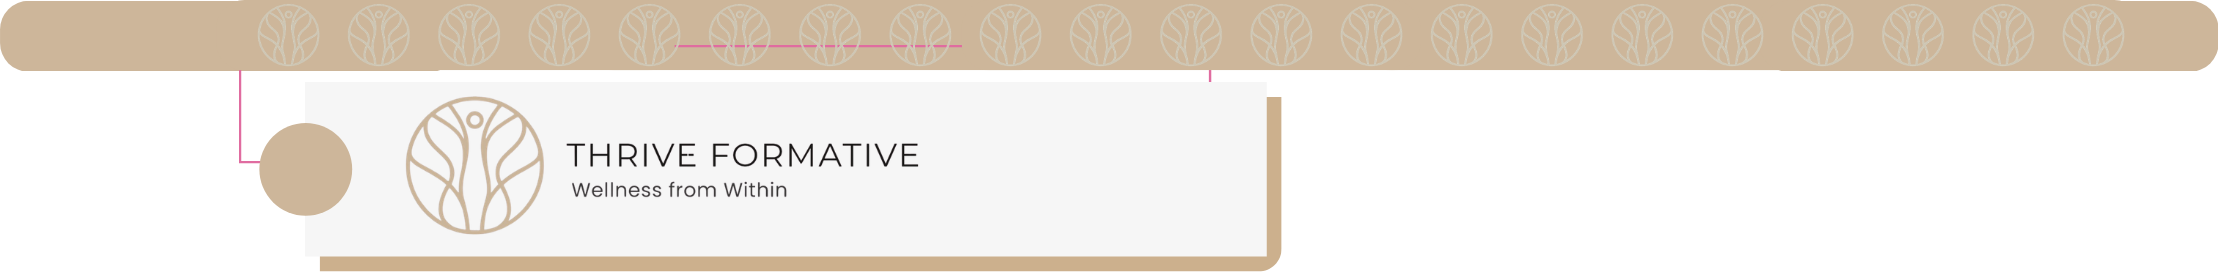
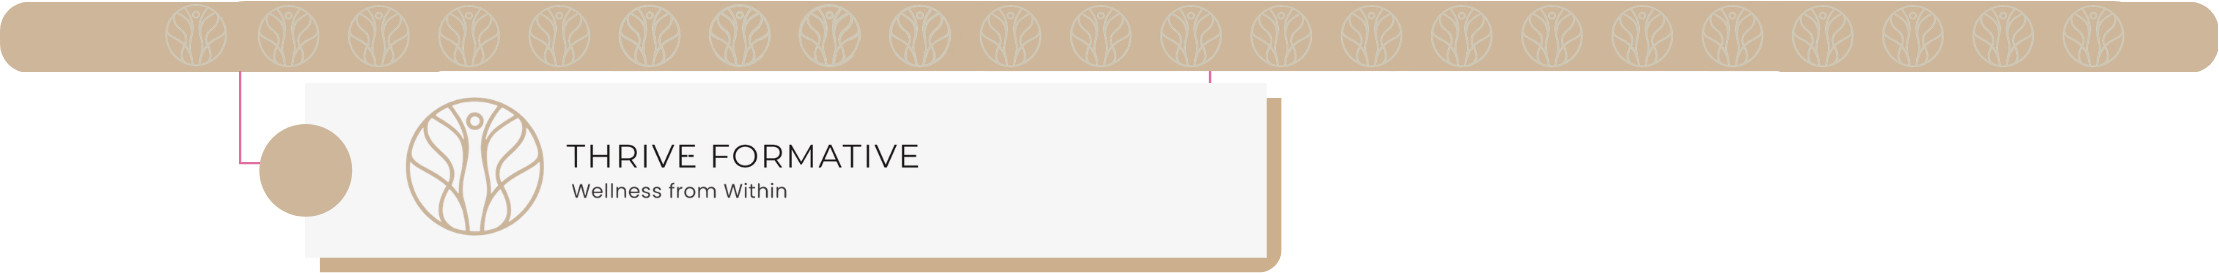
Actualiza header de correo con asset correcto y mayor altura visible.
Reemplaza la imagen superior, permite overflow lateral y escala el header a 720px.

diff --git a/lib/emailTemplate.ts b/lib/emailTemplate.ts
@@ -1,8 +1,9 @@
 const EMAIL_WIDTH = 600;
-const HEADER_SCALE = 1.35;
+const HEADER_DISPLAY_WIDTH = 720;
+const HEADER_HEIGHT_SCALE = 2.5;
 
 const ASSETS = {
-  header: { path: "/emails/header.png", width: 2219, height: 272 },
+  header: { path: "/emails/header.png", width: 2219, height: 273 },
   watermark: { path: "/emails/watermark.png", width: 1920, height: 1080 },
   footerBar: { path: "/emails/footer-bar.png", width: 1991, height: 191 },
   footerPhone: { path: "/emails/footer-phone.png", width: 525, height: 68 },
@@ -43,7 +44,7 @@ export function emailSignOff(): string {
 
 export function buildThriveEmailHtml(bodyHtml: string): string {
   const headerHeight = Math.round(
-    scaledHeight(ASSETS.header.width, ASSETS.header.height, EMAIL_WIDTH) * HEADER_SCALE,
+    scaledHeight(ASSETS.header.width, ASSETS.header.height, HEADER_DISPLAY_WIDTH) * HEADER_HEIGHT_SCALE,
   );
   const footerBarHeight = scaledHeight(ASSETS.footerBar.width, ASSETS.footerBar.height, EMAIL_WIDTH);
   const footerPhoneWidth = 220;
@@ -67,11 +68,11 @@ export function buildThriveEmailHtml(bodyHtml: string): string {
   <table role="presentation" width="100%" cellspacing="0" cellpadding="0" style="background-color:#f7f5f0;">
     <tr>
       <td align="center" style="padding:24px 12px;">
-        <table role="presentation" width="${EMAIL_WIDTH}" cellspacing="0" cellpadding="0" style="max-width:${EMAIL_WIDTH}px;width:100%;background-color:#ffffff;border-radius:0 0 20px 20px;overflow:hidden;">
+        <table role="presentation" width="${EMAIL_WIDTH}" cellspacing="0" cellpadding="0" style="max-width:${EMAIL_WIDTH}px;width:100%;background-color:#ffffff;border-radius:0 0 20px 20px;overflow:visible;">
 
           <tr>
-            <td style="padding:0;line-height:0;font-size:0;">
-              <img src="${headerSrc}" alt="Thrive Formative" width="${EMAIL_WIDTH}" height="${headerHeight}" style="display:block;width:100%;max-width:${EMAIL_WIDTH}px;height:${headerHeight}px;border:0;">
+            <td align="center" style="padding:0;line-height:0;font-size:0;overflow:visible;">
+              <img src="${headerSrc}" alt="Thrive Formative" width="${HEADER_DISPLAY_WIDTH}" height="${headerHeight}" style="display:block;width:${HEADER_DISPLAY_WIDTH}px;max-width:none;height:${headerHeight}px;border:0;margin:0 auto;">
             </td>
           </tr>
 

diff --git a/supabase/functions/_shared/emailTemplate.ts b/supabase/functions/_shared/emailTemplate.ts
@@ -1,8 +1,9 @@
 const EMAIL_WIDTH = 600;
-const HEADER_SCALE = 1.35;
+const HEADER_DISPLAY_WIDTH = 720;
+const HEADER_HEIGHT_SCALE = 2.5;
 
 const ASSETS = {
-  header: { path: "/emails/header.png", width: 2219, height: 272 },
+  header: { path: "/emails/header.png", width: 2219, height: 273 },
   watermark: { path: "/emails/watermark.png", width: 1920, height: 1080 },
   footerBar: { path: "/emails/footer-bar.png", width: 1991, height: 191 },
   footerPhone: { path: "/emails/footer-phone.png", width: 525, height: 68 },
@@ -40,7 +41,7 @@ export function emailSignOff(): string {
 
 export function buildThriveEmailHtml(bodyHtml: string): string {
   const headerHeight = Math.round(
-    scaledHeight(ASSETS.header.width, ASSETS.header.height, EMAIL_WIDTH) * HEADER_SCALE,
+    scaledHeight(ASSETS.header.width, ASSETS.header.height, HEADER_DISPLAY_WIDTH) * HEADER_HEIGHT_SCALE,
   );
   const footerBarHeight = scaledHeight(ASSETS.footerBar.width, ASSETS.footerBar.height, EMAIL_WIDTH);
   const footerPhoneWidth = 220;
@@ -64,11 +65,11 @@ export function buildThriveEmailHtml(bodyHtml: string): string {
   <table role="presentation" width="100%" cellspacing="0" cellpadding="0" style="background-color:#f7f5f0;">
     <tr>
       <td align="center" style="padding:24px 12px;">
-        <table role="presentation" width="${EMAIL_WIDTH}" cellspacing="0" cellpadding="0" style="max-width:${EMAIL_WIDTH}px;width:100%;background-color:#ffffff;border-radius:0 0 20px 20px;overflow:hidden;">
+        <table role="presentation" width="${EMAIL_WIDTH}" cellspacing="0" cellpadding="0" style="max-width:${EMAIL_WIDTH}px;width:100%;background-color:#ffffff;border-radius:0 0 20px 20px;overflow:visible;">
 
           <tr>
-            <td style="padding:0;line-height:0;font-size:0;">
-              <img src="${headerSrc}" alt="Thrive Formative" width="${EMAIL_WIDTH}" height="${headerHeight}" style="display:block;width:100%;max-width:${EMAIL_WIDTH}px;height:${headerHeight}px;border:0;">
+            <td align="center" style="padding:0;line-height:0;font-size:0;overflow:visible;">
+              <img src="${headerSrc}" alt="Thrive Formative" width="${HEADER_DISPLAY_WIDTH}" height="${headerHeight}" style="display:block;width:${HEADER_DISPLAY_WIDTH}px;max-width:none;height:${headerHeight}px;border:0;margin:0 auto;">
             </td>
           </tr>
 
